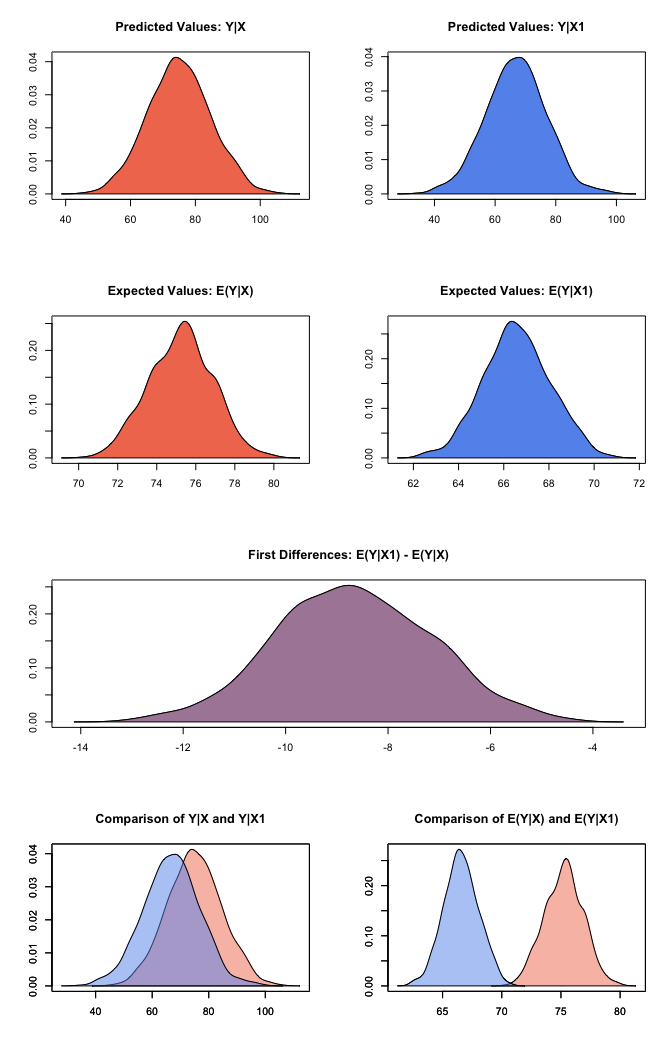
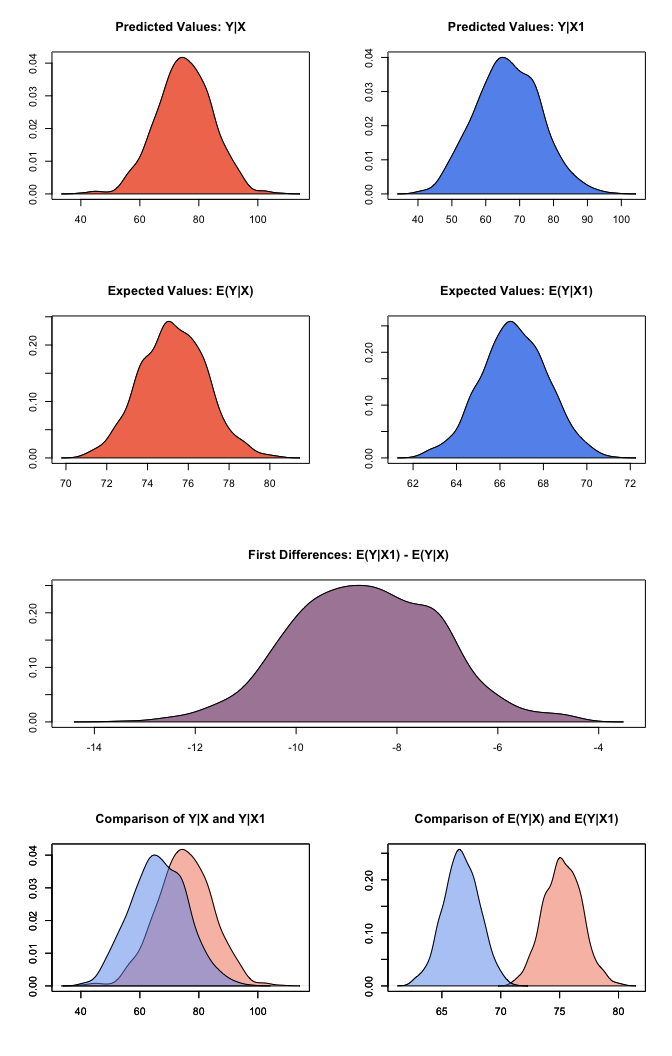
factor ci.plots
multi-mode factors arbitarily pick one

incomplete show

summary for ranges

diff --git a/README.md b/README.md
@@ -116,8 +116,25 @@ arguments: equation and data:
     # model summary
     summary(z5)
 
-    ##   Length    Class     Mode 
-    ##        1 Zelig-ls       S4
+    ## Model: 
+    ## 
+    ## Call:
+    ## z5$zelig(formula = Fertility ~ Education, data = swiss)
+    ## 
+    ## Residuals:
+    ##     Min      1Q  Median      3Q     Max 
+    ## -17.036  -6.711  -1.011   9.526  19.689 
+    ## 
+    ## Coefficients:
+    ##             Estimate Std. Error t value Pr(>|t|)
+    ## (Intercept)  79.6101     2.1041  37.836  < 2e-16
+    ## Education    -0.8624     0.1448  -5.954 3.66e-07
+    ## 
+    ## Residual standard error: 9.446 on 45 degrees of freedom
+    ## Multiple R-squared:  0.4406, Adjusted R-squared:  0.4282 
+    ## F-statistic: 35.45 on 1 and 45 DF,  p-value: 3.659e-07
+    ## 
+    ## Next step: Use 'setx' method
 
 The -0.8624 coefficient on education suggests a negative relationship
 between the education of a province and its fertility rate. More
@@ -141,8 +158,14 @@ predictor value using the `setx()` method:
     # model summary
     summary(z5)
 
-    ##   Length    Class     Mode 
-    ##        1 Zelig-ls       S4
+    ## setx:
+    ##   (Intercept) Education
+    ## 1           1         5
+    ## setx1:
+    ##   (Intercept) Education
+    ## 1           1        15
+    ## 
+    ## Next step: Use 'sim' method
 
 After setting our predictor value, we simulate using the `sim()` method:
 
@@ -152,8 +175,27 @@ After setting our predictor value, we simulate using the `sim()` method:
     # model summary
     summary(z5)
 
-    ##   Length    Class     Mode 
-    ##        1 Zelig-ls       S4
+    ## 
+    ##  sim x :
+    ##  -----
+    ## ev
+    ##       mean       sd      50%     2.5%    97.5%
+    ## 1 75.26966 1.596718 75.22976 72.23327 78.55639
+    ## pv
+    ##          mean       sd      50%     2.5%    97.5%
+    ## [1,] 75.15388 9.456881 74.99793 56.51636 93.35857
+    ## 
+    ##  sim x1 :
+    ##  -----
+    ## ev
+    ##      mean       sd      50%     2.5%    97.5%
+    ## 1 66.6539 1.519882 66.60093 63.59532 69.70365
+    ## pv
+    ##          mean       sd      50%     2.5%    97.5%
+    ## [1,] 66.58548 9.487096 66.62897 48.59234 85.37922
+    ## fd
+    ##        mean      sd      50%     2.5%     97.5%
+    ## 1 -8.615764 1.44855 -8.62158 -11.4195 -5.825877
 
 At this point, we’ve estimated a model, set the predictor value, and
 estimated easily interpretable quantities of interest. The `summary()`

diff --git a/NEWS.md b/NEWS.md
@@ -35,9 +35,20 @@ from a Zelig object and returning them as a tidy-formatted data frame.
 - `zelig` can handle independent variables that are transformed using the 
 natural logarithm inside of the call. #225
 
-## Minor changes
+## Minor changes and bug fixes
 
 - Internal code improvements.
+
+- Corrected an issue where `plot` would tend to choose a factor level as the 
+x-axis variable when plotting a range of simulations. #226
+
+- If a factor level variable's fitted value is not specified in `setx` and
+it is multi-modal, the last factor in the factor list is arbitarily chosen. 
+This replaces previous behavior where the level was randomly chosen, causing
+unuseful quantity of interest range plots. #226
+
+- Corrected a bug where `summary` for ranges of `setx` would only show the 
+first scenario. Now all scenarios are shown. #226
 
 - Corrected a bug where the README.md was not included in the CRAN build.
 
